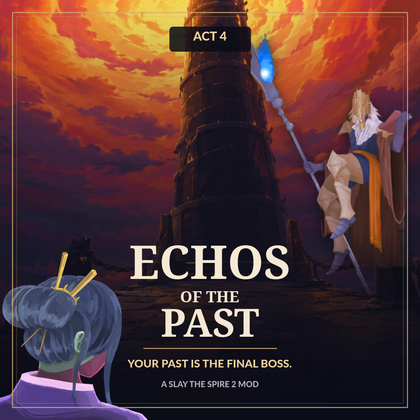
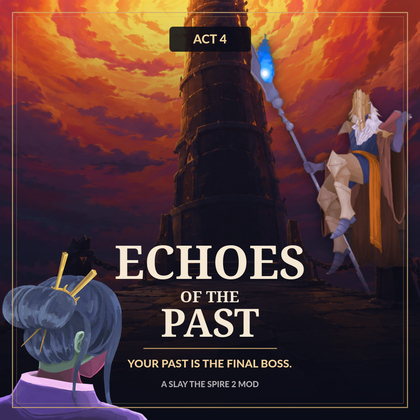
Fix promotional artwork spelling and center Act 4 label

Changed region(s): [[0.2786, 0.5571, 0.7429, 0.681], [0.4643, 0.0619, 0.5571, 0.1238]]

diff --git a/docs/media/README.md b/docs/media/README.md
@@ -1,6 +1,6 @@
 # Release media
 
-Branding: **Act 4: Echos of the Past** (1.0.1). The gameplay screenshots were
+Branding: **Act 4: Echoes of the Past** (1.0.1). The gameplay screenshots were
 captured for 1.0.0; gameplay, the Ancient and the Architect encounter are unchanged.
 The thumbnail, banner and in-game mod image have been updated to the new title.
 
